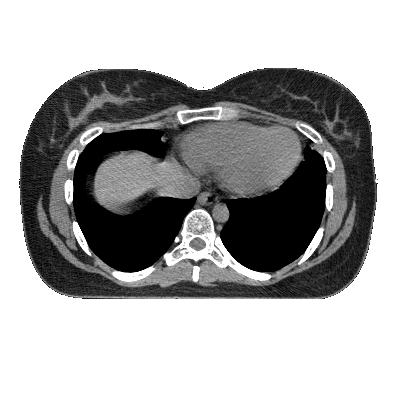
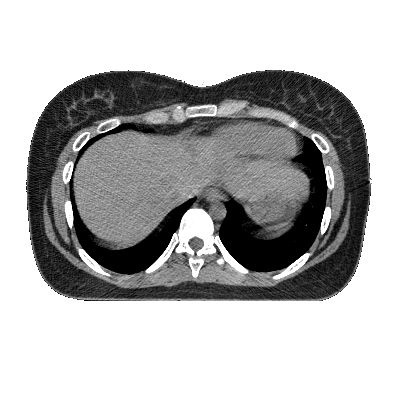
you can now switch between images with a range input field

Changed region(s): [[0.03, 0.15, 0.96, 0.75]]

diff --git a/public/javascripts/drawing.js b/public/javascripts/drawing.js
@@ -66,12 +66,11 @@ components.drawing = function(){
 			var imageRefs = ['/images/cases/case1/1.png', '/images/cases/case1/2.png','/images/cases/case1/3.png', '/images/cases/case1/4.png'];
 			
 			imageRefs.forEach(function(img){
-				if(imageRefs.indexOf(img) == imageRefs.length-1) {
-					this.$('#images').append('<img src="'+img+'" />');
-				} else {
-					this.$('#images').append('<img src="'+img+'" />');
-				}
+				this.$('#images').append('<img src="'+img+'" style="dislay: none;" />');
 			});
+			
+			this.slides = this.$('#images').children();
+			$(this.slides[0]).show();
 		},
 		goBack: function(e) {
 			e.preventDefault();
@@ -102,7 +101,14 @@ components.drawing = function(){
 		},
 		changeLayer: function(event) {
 			var slide = $('.slider')[0].value;
-			//console.log($.children('#images'));
+			this.slides.each(function(n, el){
+				if(slide != n) {
+					$(el).hide();
+				} else {
+					$(el).show();
+					$('#slide').html('#'+(n+1));
+				}
+			});
 		}
 	});
 };

diff --git a/public/renders/computer.html b/public/renders/computer.html
@@ -16,7 +16,11 @@
 			<img class="brush1" src="images/brush.png" style="background-color:red">
 			<img class="brush2" src="images/brush.png" style="background-color:white">
 			<img class="brush3" src="images/brush.png" style="background-color:green">
-			<input type="range" class="slider" min="1" max="4" />
+			
+			<div id="slides">
+				<input type="range" class="slider" min="0" max="3" value="0" />
+				<span id="slide">#1</span>
+			</div>
 		</div>
 		<div id="prep_button">
 			<h5 class="light_grey_gradient_text"><a href="">PREP FOR TREATMENT</a></h5>                
